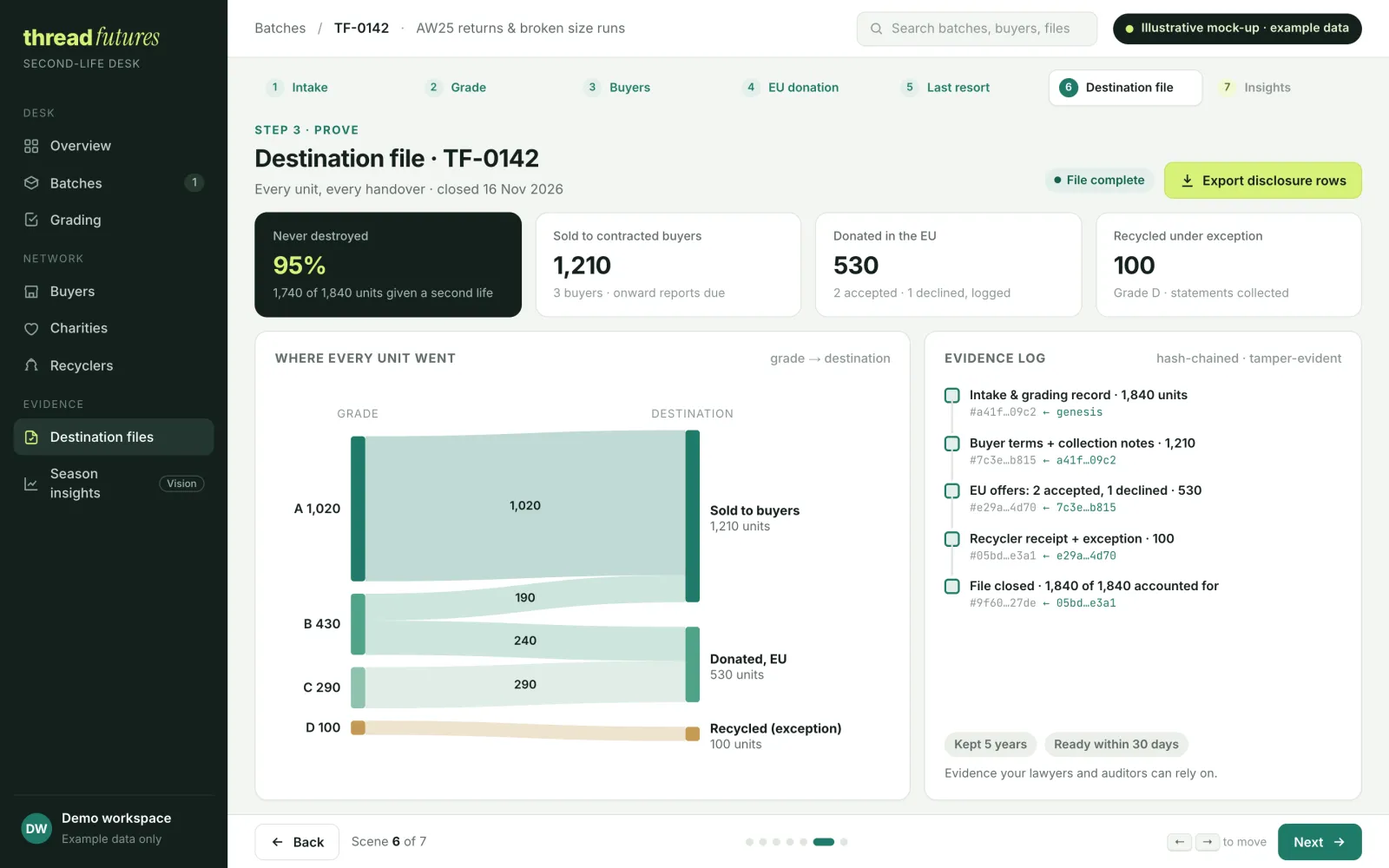
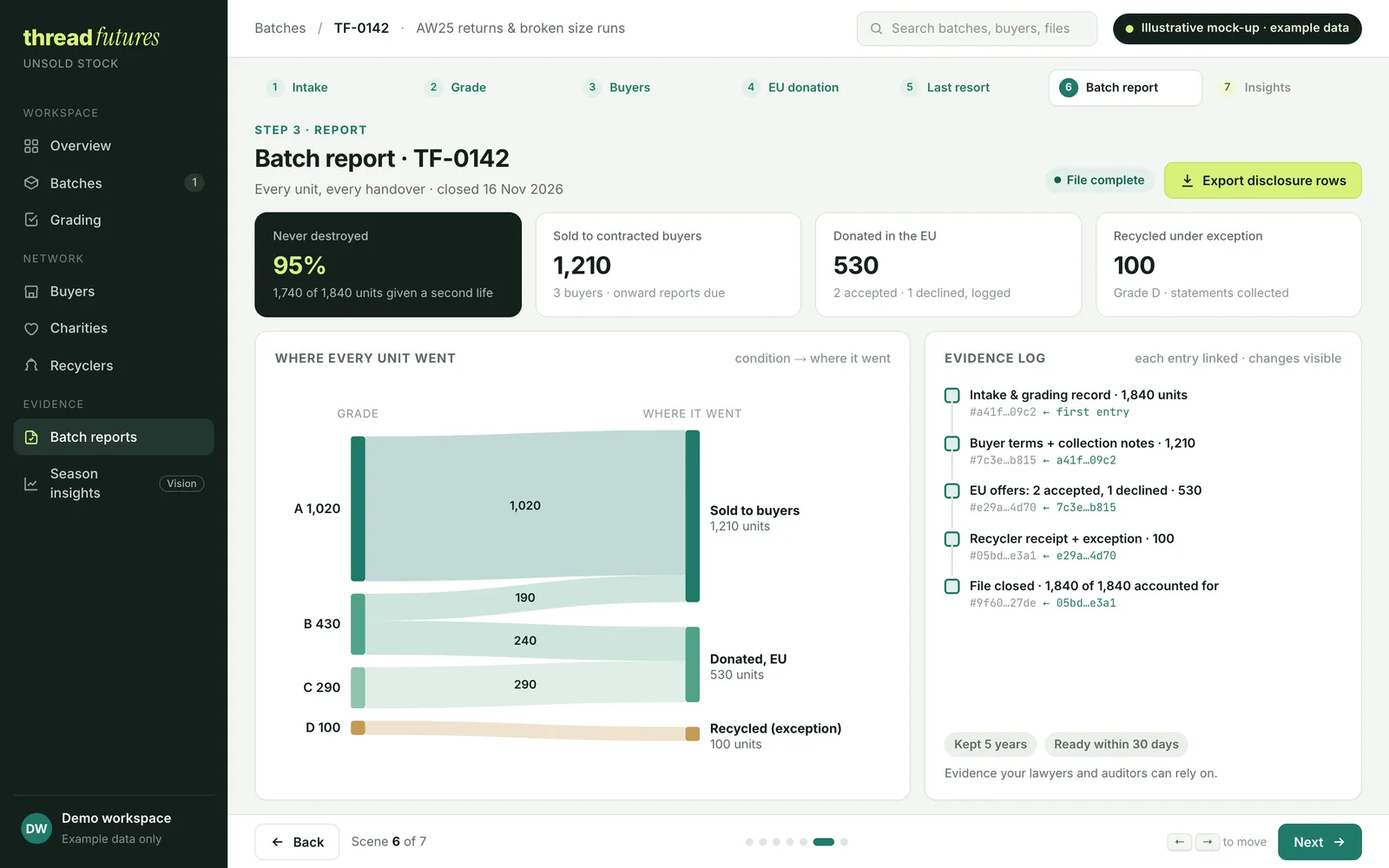
Update sub-project docs to current wording and figures; refresh site mock-up and contact count

diff --git a/site/investors.html b/site/investors.html
@@ -442,7 +442,7 @@ footer{background:#0F1817;color:var(--on-dark-2);padding:40px 0;font-size:.8rem}
     <p class="lede" style="max-width:720px;margin-top:14px"><b>Why this and not software (12 Nov 2026):</b> the software I'd built (stall-risk model, regulation search, purchase-order agent) could largely be rebuilt by a brand analyst with an AI assistant, and clean stock already sells. So we handle the physical placement and the records made at each handover, which an AI tool can't create after the fact.</p>
     <div class="hero-meta">
       <div><b>Pre-launch, no customers yet</b>Pre-revenue, not incorporated, solo founder in London. Not yet proven: whether brands feel enough pain to pay; our interviews test exactly that, with a written kill signal.</div>
-      <div><b>Talking to the market</b>Since 16 Nov 2026: interviewing brands, buyers and EU charities from 140+ named contacts. Supported by NU London Startup Hub, Barclays Eagle Labs Demo Directory, NatWest Digital Boost; on YC Co-Founder Matching</div>
+      <div><b>Talking to the market</b>Since 16 Nov 2026: interviewing brands, buyers and EU charities from nearly 200 named contacts. Supported by NU London Startup Hub, Barclays Eagle Labs Demo Directory, NatWest Digital Boost; on YC Co-Founder Matching</div>
       <div><b>Batch-record system</b>Planned, not built; the clickable prototype is a mock-up with example data</div>
     </div>
     <div class="cta-row"><a class="btn btn-line" href="index.html">← Back to the main site</a></div>

diff --git a/site/index.html b/site/index.html
@@ -800,7 +800,7 @@ select:focus,input[type=text]:focus,input[type=email]:focus,textarea:focus{outli
       <div class="reveal">
         <dl class="facts">
           <div><dt>Status</dt><dd>Pre-revenue, not yet incorporated, started in November 2026. Solo founder in London, recruiting a co-founder from fashion operations. No customers, signed buyers, charities or partners yet, and no batch handled.</dd></div>
-          <div><dt>Talking to</dt><dd>Since 16 November 2026, interviewing brands, resale buyers and EU charities, from more than 140 named contacts. Target by February 2027: 15 brands, 5 resale buyers, 3–5 EU charities, 2–3 mid-size fashion warehouses and one lawyer.</dd></div>
+          <div><dt>Talking to</dt><dd>Since 16 November 2026, interviewing brands, resale buyers and EU charities, from nearly 200 named contacts. Target by February 2027: 15 brands, 5 resale buyers, 3–5 EU charities, 2–3 mid-size fashion warehouses and one lawyer.</dd></div>
           <div><dt>Support</dt><dd>Northeastern University London Startup Hub, Barclays Eagle Labs Demo Directory, NatWest Digital Boost, and YC Co-Founder Matching.</dd></div>
           <div><dt>Not yet proven</dt><dd>Whether brands feel enough pain to pay; our interviews test exactly that, with a written kill signal.</dd></div>
           <div><dt>Decision</dt><dd>On 10 February 2027 we decide: go, keep testing, narrow, or stop. If 11 of 15 brands say their current liquidator already covers it, we narrow or stop.</dd></div>

diff --git a/docs/guides/04_stall_risk_model_step_by_step.md b/docs/guides/04_stall_risk_model_step_by_step.md
@@ -226,18 +226,18 @@ From `models/stall_metrics.json`. Train 896 SKUs, test 423 later launches, test 
 |---|---|---|---|
 | ROC AUC | **0.8118** | 0.5994 | 0.5 |
 | PR AUC | **0.5312** | 0.3138 | about 0.106 (base rate) |
-| Precision in top 20% | **34.5%** | 8.3% | 10.6% |
+| Precision in top 20% | **32.1%** | 20.2% | 10.6% |
 | Brier score | 0.0874 | n/a | about 0.095 if always predicting the base rate |
 
-Feature importance: early_trend 0.1959, early_customers 0.1634, launch_list_price 0.154, early_units_per_week 0.1386, launch_month 0.107, early_zero_week_share 0.0753, early_orders 0.0598, early_return_rate 0.041, is_seasonal_christmas 0.0367, early_max_markdown 0.0282.
+Feature importance: early_trend 0.2005, early_customers 0.1817, launch_list_price 0.1519, early_units_per_week 0.1287, launch_month 0.1076, early_zero_week_share 0.0637, early_orders 0.0592, early_return_rate 0.0386, is_seasonal_christmas 0.038, early_max_markdown 0.0301.
 
-MLflow run ID: `5dd66097c6e54d829c5e8004c37580fa`.
+MLflow run ID: `588d9d4399eb4ce0be3deed3809a0b84` (registered as "stall-risk" version 2, after the 9 Nov 2026 baseline fix; version 1 was run `5dd66097c6e54d829c5e8004c37580fa`).
 
 **How to read it:**
 
 - AUC 0.81: pick a stalled and a healthy product at random, and 81% of the time the model ranks the stalled one higher.
-- Top 20%: if a merchandiser reviews the 20% of lines the model flags, about 1 in 3 really will stall, versus about 1 in 9 at random. That's about three times the base rate.
-- PR AUC 0.51 vs a base rate of 0.11: strong given how rare stalls are.
+- Top 20%: if a merchandiser reviews the 20% of lines the model flags, about 1 in 3 really will stall, versus about 1 in 5 for the rule and about 1 in 9 at random. That's about three times the base rate.
+- PR AUC 0.53 vs a base rate of 0.11: strong given how rare stalls are.
 - Trend matters most, which makes sense, but it isn't enough alone: customers, price and launch month add a lot.
 - `launch_month` being important is a warning: seasonality is in play, which part 06 confirms.
 
@@ -246,7 +246,7 @@ MLflow run ID: `5dd66097c6e54d829c5e8004c37580fa`.
 ## 5. What went wrong or surprised me, and what it taught me
 
 ### The model ranks well but over-predicts later
-Monitoring (part 06) found that for 2011 Q2 launches the model predicted a 14% stall rate (13.9%) and only 1.7% actually stalled, because those lines sold into the Christmas peak. Ranking was still good (AUC 0.79), but the probabilities were too high. That's a calibration problem, and the fix is planned as part 15.
+Monitoring (part 06) found that for 2011 Q2 launches the model predicted a 13.6% stall rate and only 1.7% actually stalled, because those lines sold into the Christmas peak. Ranking was still good (AUC 0.84), but the probabilities were too high. That's a calibration problem, and the fix is planned as part 15.
 
 A read-only check while writing this guide shows why: the stall rate in the training set is 27.6% versus 10.6% in the test set. The model learned from a period where stalling was much more common. That also explains why the Brier score is only modestly better than predicting the base rate.
 
@@ -271,7 +271,7 @@ Without `LAST_LAUNCH`, products launched late in 2011 would look stalled simply 
 - **Real open data, not fashion and not a customer.** Gift and homeware retail has different seasons and life cycles from fashion.
 - Small test set (423 SKUs, about 45 stalls), so the metrics have real uncertainty. I haven't reported confidence intervals on the AUC; bootstrapping the test set would give them.
 - Over-predicts for spring launches heading into Christmas (part 06). Seasonality fix and calibration planned (part 15).
-- The baseline comparison needs rerunning with the corrected tie-break (section 5).
+- The baseline was rerun with the corrected tie-break on 9 Nov 2026 (section 5); the numbers above are from that run.
 - The 20% stall threshold and 12-week window are choices, not tuned to a business decision.
 - No hyperparameter search or cross-validation; one sensible configuration.
 - Feature importance is not causation.

diff --git a/docs/parts/18_batch_and_destination_file_prototype.md b/docs/parts/18_batch_and_destination_file_prototype.md
@@ -1,27 +1,33 @@
-# Thread Futures part 18: Batch and destination file prototype
+# Thread Futures part 18: Batch report prototype
 
-**Status:** Planned · **Label:** Planned (Mon 16 – Thu 19 Nov 2026)  
+**Status:** Planned · **Label:** Planned (next, after validation interviews)  
 
 ## In one line
-The first build of the second-life desk's product: one destination file per batch, recording every unit and every step (Grade → Place → Prove), with an export of the EU Article 24 disclosure rows.
+The first build of the actual product: one batch report per batch of a brand's unsold stock, recording every unit and every step (check, sell or donate or recycle, report), with an export of the EU Article 24 disclosure rows.
+
+## Why it matters
+Thread Futures is a B2B resale service for fashion brands: we act as their sales team for stock they can't sell themselves. The brand keeps ownership of the stock until it is sold, gets the money from each sale and gets a report of where every item went. Parts 1 to 10 are the founder's technical proof; this part is the product itself.
 
 ## Skills it adds
 Data modelling, SQL (SQLite/Postgres), FastAPI, audit logging, pytest
 
 ## Plan
-- **Batch intake with grading fields:** batch ID, SKUs, quantity, real size breakdown, condition codes, fibre composition (from the brand's tech packs), reason unsold.
+- **Batch intake with grading fields:** batch ID, SKUs, quantity, real size breakdown, condition codes, fibre composition (from the brand's product specs), reason unsold.
 - **Placement records, in waste-hierarchy order:**
   - contracted buyers, with the contract terms per placement (no destruction, no export as waste, channel/marketplace limits, de-labelling where required, onward-destination reporting) and the buyer's onward-destination report;
   - an offer/refusal log for donation to EU social-economy entities (who was offered what, when, and their decision), so the donation derogation (offered to at least three suitable EU entities for at least 8 weeks) can be evidenced;
   - waste-operator statements for last-resort recycling: the derogation statement handed over and the operator's receipt/treatment statement collected.
 - **Hash-chained, append-only log:** every event is appended and chained to the previous one, so any later edit is visible. Records are created at the moment of each handover, not rebuilt afterwards.
-- **Export:** a destination file per batch (kept 5 years, producible within 30 days of a request) and rows ready for the Article 24 disclosure table.
-- FastAPI endpoints to record events and export the file and disclosure rows.
+- **Export:** a batch report per batch (kept 5 years, producible within 30 days of a request) and rows ready for the Article 24 disclosure table.
+- FastAPI endpoints to record events and export the batch report and disclosure rows.
 
 This is why the product isn't something a chatbot can reproduce: a chat can draft a template, but it can't create a charity's acceptance or a waste operator's statement after the fact.
 
 ## Done when
-A demo season's batches produce a reproducible destination file and disclosure rows, with tests.
+A demo season's batches produce a reproducible batch report and disclosure rows, with tests.
 
 ## Effort
-4 days (Mon 16 – Thu 19 Nov 2026)
+About 4 days, scheduled after the validation interviews.
+
+## Note on the file name
+This file keeps its original name (`18_batch_and_destination_file_prototype.md`); "destination file" was the earlier name for the batch report.

diff --git a/docs/parts/01_offcut_forecasting.md b/docs/parts/01_offcut_forecasting.md
@@ -1,12 +1,12 @@
 # Thread Futures part 01: Offcut forecasting
 
-**Status:** Built · **Label:** Simulated data  
+**Status:** Built, now parked (an earlier idea, not part of the current resale service) · **Label:** Simulated data  
 
 ## In one line
 Forecasts how many kilograms of fabric offcuts a planned cutting run will produce, as a low, likely and high range, before any fabric is cut.
 
 ## Why it matters
-Cutting plans (markers) report planned efficiency, but cutting rooms lose more fabric than the plan shows: selvedge trim, ply ends, roll remnants, splices, defects. Knowing the likely weight early lets a factory plan a buyer for the offcuts.
+Cutting plans (markers) report planned efficiency, but cutting rooms lose more fabric than the plan shows: selvedge trim, ply ends, roll remnants, splices, defects. Knowing the likely weight early lets a factory plan a buyer for the offcuts. This was an earlier idea. Thread Futures now focuses on finished clothes and shoes that brands can't sell, so this part is kept as proof of build: it shows a full forecasting pipeline, built and tested from start to finish by one person.
 
 ## Data
 8,000 simulated production runs from a simulator that nests graded pattern pieces into markers and adds real-world losses. Calibrated to published industry ranges (simulated waste averages about 19% of fabric, inside the 10 to 20% range). Not factory data.
@@ -21,7 +21,7 @@ Python, scikit-learn (GradientBoostingRegressor, quantile loss), pandas, NumPy, 
 On 1,600 held-out simulated runs: 8.8% mean error on offcut kg vs 20.3% for the 15% rule and 23.3% for the marker alone; 82.4% of runs within ±15%; P10 to P90 range covers 76.8% of outcomes (target 80%). With the planned marker as an input: 4.9% error. A float32 split-threshold bug in the browser export was found and fixed: scikit-learn compares inputs as 32-bit floats, and rounded thresholds made edge inputs (e.g. a 1.57 m roll) take a different branch. A test now proves the export matches scikit-learn.
 
 ## Honest limits
-Trained on simulated runs. The first pilot goal is ±15% on real weighed output. Coverage is slightly under the 80% target.
+Trained on simulated runs; no factory has used it. If the idea were picked up again, the first goal would be ±15% on real weighed output. Coverage is slightly under the 80% target.
 
 ## Where it lives
 src/offcut/ (simulate.py, nesting.py, train.py, export.py), site/forecast.js, models/metrics.json

diff --git a/docs/guides/01_offcut_forecasting_step_by_step.md b/docs/guides/01_offcut_forecasting_step_by_step.md
@@ -1,6 +1,6 @@
 # Part 01: Offcut forecasting, step by step
 
-**Status:** Built · **Data label:** SIMULATED cutting runs (not factory data)
+**Status:** Built, now parked (an earlier idea, kept as proof of build; not part of the current resale service) · **Data label:** SIMULATED cutting runs (not factory data)
 **Code:** `src/offcut/` (simulate.py, garments.py, nesting.py, pipeline.py, train.py, export.py), `site/forecast.js`
 **Numbers from:** `models/metrics.json`, `data/staged/quality_report.json`
 
@@ -318,7 +318,7 @@ From `data/staged/quality_report.json`: 8,000 rows, no contract violations, mean
 **What it taught me:** when you move a model between languages, "nearly the same" is not the same. You need a parity test that proves the exported model gives the same answers as the original, especially at boundaries.
 
 ### The marker gap was bigger than I expected
-The marker misses about a quarter of the weighed volume in simulation (bias -4.4 pp on an average of about 19%). That's the case for the product: planning on the marker figure leaves a recycler short.
+The marker misses about a quarter of the weighed volume in simulation (bias -4.4 pp on an average of about 19%). Planning on the marker figure alone would leave a buyer of the offcuts short.
 
 ### Coverage slightly under target
 The P10 to P90 range covers 76.8%, not 80%. It's a small miss but a real one. A fix would be conformal calibration of the interval or slightly widening it, checked on held-out data.
@@ -327,8 +327,8 @@ The P10 to P90 range covers 76.8%, not 80%. It's a small miss but a real one. A 
 
 ## 6. Honest limits
 
-- **Simulated, not factory data.** The simulator is calibrated to published ranges (marker efficiency, roll lengths, selvedge widths), but it's still my model of reality. The first pilot goal is ±15% on real weighed offcuts.
-- **Not a customer.** No factory has used this yet.
+- **Simulated, not factory data.** The simulator is calibrated to published ranges (marker efficiency, roll lengths, selvedge widths), but it's still my model of reality. If the idea were picked up again, the first goal would be ±15% on real weighed offcuts.
+- **Not a customer, and parked.** No factory has used this.
 - The nesting is a rectangle approximation with a calibration factor, not commercial nesting software.
 - Five garment types and four fibres. A real factory has many more styles.
 - Coverage is 76.8% against an 80% target.

diff --git a/docs/guides/06_model_monitoring_step_by_step.md b/docs/guides/06_model_monitoring_step_by_step.md
@@ -186,8 +186,8 @@ The 175 + 70 + 178 SKUs add up to the 423 test SKUs in part 04.
 
 **How to read it:**
 
-- **Ranking holds in two of three quarters** (0.81 and 0.79). 2011Q1 drops to 0.62, but it has only 70 SKUs (about 5 stalls at 7.1%), so that AUC is very noisy.
-- **Calibration drifts badly.** The model over-predicts in every quarter, and the gap widens: 28% vs 21%, then 21% vs 7%, then 14% vs 1.7%. For 2011 Q2 launches, the model expected about 1 in 7 to stall and only about 1 in 60 did. Those spring lines' weeks 12 to 25 ran into the Christmas season (from late summer onwards), when sales rise instead of collapsing.
+- **Ranking holds in two of three quarters** (0.81 and 0.84). 2011Q1 drops to 0.65, but it has only 70 SKUs (about 5 stalls at 7.1%), so that AUC is very noisy.
+- **Calibration drifts badly.** The model over-predicts in every quarter, and the gap widens: 27% vs 21%, then 20% vs 7%, then 14% vs 1.7%. For 2011 Q2 launches, the model expected about 1 in 7 to stall and only about 1 in 60 did. Those spring lines' weeks 12 to 25 ran into the Christmas season (from late summer onwards), when sales rise instead of collapsing.
 - **Inputs shifted a lot.** Later launches sold more per week, to more customers, with fewer zero weeks than the training launches.
 - **launch_month PSI is huge by construction.** Each test quarter contains only three months, while training covers many months, so this "drift" is expected. It's still useful: it tells you the model is being asked about months it saw less of.
 
@@ -195,7 +195,7 @@ The 175 + 70 + 178 SKUs add up to the 423 test SKUs in part 04.
 
 ## 5. What went wrong or surprised me, and what it taught me
 
-### Over-prediction for 2011 Q2: 14% predicted vs 1.7% actual
+### Over-prediction for 2011 Q2: 13.6% predicted vs 1.7% actual
 This was the big finding. The model still ranked well, so a simple AUC check would have said "fine". Only the calibration check showed it was over-confident about stalling for lines selling into Christmas. A read-only check while writing this guide adds context: 27.6% of training launches stalled versus 10.6% of test launches, so the model learned in a higher-stall world.
 
 **What it taught me:** monitor calibration, not just ranking. And monitoring is useful because it tells you exactly what to fix next: a seasonal feature (weeks to Christmas) and recalibration on recent data. That's planned as part 15.

diff --git a/docs/guides/05_experimentation_step_by_step.md b/docs/guides/05_experimentation_step_by_step.md
@@ -8,9 +8,9 @@
 
 ## 1. The question this stage answers
 
-Two questions. A: do markdowns actually clear stock, or would those products have sold anyway? B: if Thread Futures runs a pilot routing unsold stock to better buyers, how many batches would it need to prove it recovers more money than the brand's usual liquidator?
+Two questions. A: do markdowns actually sell more units, or would those products have sold anyway? B: if Thread Futures sells some of a brand's unsold batches to vetted buyers and the brand's usual liquidator takes the others, how many batches would it take to show we return more money?
 
-A fashion brand cares because markdowns cost margin, and it only makes sense to pay for a routing service if the uplift is proven, not just claimed. Both questions are about telling cause from coincidence.
+A fashion brand cares because markdowns cost margin, and it only makes sense to pay for a resale service if the extra money back is shown, not just claimed. Both questions are about telling cause from coincidence.
 
 ---
 
@@ -137,7 +137,7 @@ def pilot_design(seed: int = 3) -> dict:
 - Welch's t-test: compares the means without assuming equal variances.
 - Bootstrap: resample each arm with replacement 5,000 times, record the difference in means, and take the 2.5th and 97.5th percentiles as a 95% confidence interval.
 
-**Why simulate:** to check the analysis plan works end to end before any real pilot, and to show a buyer what the result would look like.
+**Why simulate:** to check the analysis plan works from start to finish before any real batches, and to show a buyer what the result would look like.
 
 ---
 
@@ -267,7 +267,7 @@ The 64 batches come straight from three numbers I chose. If the true SD were lar
 - Price changes may partly reflect wholesale order mix (list price is the mode of small-order prices, but wholesale share can still shift).
 - Only one markdown threshold (15%) and one window (4 weeks) tested.
 - Matching is on pre-period level only, not trend.
-- **Part B is simulated.** The 8p, 11p and 6p are planning assumptions. A real pilot replaces them.
+- **Part B is simulated.** The 8p, 11p and 6p are planning assumptions. Real batches would replace them; no stock has been sold yet.
 - The simulated pilot is one draw; another seed gives a different uplift and interval.
 
 ---

diff --git a/docs/guides/10_ci_and_docker_step_by_step.md b/docs/guides/10_ci_and_docker_step_by_step.md
@@ -10,7 +10,7 @@
 
 Does the project run anywhere, not just on my laptop, and does every change get checked automatically?
 
-A fashion brand (or anyone hiring me) cares because a model that only works on one machine can't be handed over, deployed or trusted. Continuous integration proves on every push that the tests pass, the service builds into a container, and the container actually answers a real request.
+A fashion brand, a programme or an investor's technical adviser cares because a model that only works on one machine can't be handed over, deployed or trusted. Continuous integration proves on every push that the tests pass, the service builds into a container, and the container actually answers a real request.
 
 ---
 
@@ -203,7 +203,7 @@ Keys belong in the CI platform's encrypted secrets, never in the workflow file. 
 
 - **Per the summary and the commit history:** the first CI run passed on 9 Nov 2026: tests green, image built, API answered the forecast request. The commit after adding CI is titled "Docker build now verified in CI: update site and README" (`cbd22be`).
 - **Two jobs:** `test` (pytest) then `docker` (build, run, poll `/health`, POST a forecast).
-- **Tests run:** 22 at the time of the first CI run. The repo now has 23 (one more parity test was added in a later commit, `c2d6285`; see part 09). I haven't seen the CI log for the latest commit, so check the Actions page before quoting 23.
+- **Tests run:** 22 at the time of the first CI run. The repo now has 23 (one more parity test was added in a later commit, `c2d6285`; see part 09). Checked on 17 Nov 2026: the latest run on main reports "23 passed", and the smoke test returned `{"status":"ok"}` and a forecast with P50 960.7 kg (simulated data).
 - **Image contents:** the API code, two model files, the regulation corpus and the sample recycler list. No raw data, warehouse, tests or secrets.
 
 ---

diff --git a/docs/parts/00_index.md b/docs/parts/00_index.md
@@ -1,6 +1,6 @@
 # Thread Futures: all parts
 
-One file per part. Parts 1 to 10 are built and public at https://github.com/catliugit/ThreadFutures: they are the founder's technical proof, not the product. Parts 11 to 18 are planned. Part 18, the batch and destination file prototype, is the first build of the service's batch report (check, sell or donate or recycle, report) and is next. Part 1 (Offcut Forecast) is a parked earlier idea on simulated data.
+One file per part. Parts 1 to 10 are built and public at https://github.com/catliugit/ThreadFutures: they are the founder's technical proof, not the product. Parts 11 to 18 are planned. Part 18, the batch report prototype, is the first build of the actual product (check, sell or donate or recycle, report) and comes next, after the validation interviews. Part 1 (Offcut Forecast) is a parked earlier idea on simulated data.
 
 | # | Part | Status | Label |
 |---|---|---|---|
@@ -21,6 +21,6 @@ One file per part. Parts 1 to 10 are built and public at https://github.com/catl
 | 15 | [Seasonality fix](15_seasonality_fix.md) | Planned | Planned |
 | 16 | [Markdown pricing (Bayesian)](16_markdown_pricing_bayesian.md) | Planned | Planned |
 | 17 | [Azure deploy](17_azure_deploy.md) | Planned | Planned |
-| 18 | [Batch and destination file prototype](18_batch_and_destination_file_prototype.md) | Planned | Planned (Mon 16 – Thu 19 Nov 2026, next) |
+| 18 | [Batch report prototype](18_batch_and_destination_file_prototype.md) | Planned | Planned (next, after validation interviews) |
 
-Numbers come from the repo's models/*.json files and were last checked on 9 Nov 2026.
+Numbers come from the repo's models/*.json files and were last checked on 17 Nov 2026 (parts 7 to 10 against models/*.json, tests/ and the CI log of 17 Nov 2026: 23 tests passed).

diff --git a/docs/guides/09_api_service_step_by_step.md b/docs/guides/09_api_service_step_by_step.md
@@ -207,7 +207,7 @@ The API tests are integration tests; most of `test_offcut.py` and `test_stock.py
 - **Endpoints:** `/health`, `/v1/offcuts/forecast`, `/v1/stock/stall-risk`, `/v1/regulation/search`.
 - **Bad inputs return 422**, tested for an unknown garment, a gsm of 5 and a launch month of 13.
 
-**The test count.** The README and summaries say **22** tests. The test files in the repo today contain **23**: 6 in `test_api.py`, 12 in `test_offcut.py`, 5 in `test_stock.py`. pytest's cache lists the same 23 node IDs, and `pytest --collect-only` collects 23. The git history explains it: `test_browser_stall_model_matches_sklearn` was added in commit `c2d6285` ("Interactive stall-risk tool", 23:24 on 9 Nov 2026), after the CI commits (`1bc9206`, `cbd22be`, 22:40). So 22 was right for the first CI run, and 23 is right now. I haven't seen the CI log for the later commit, so check the Actions page shows it green, then report "23 automated tests".
+**The test count.** The README and summaries say **22** tests. The test files in the repo today contain **23**: 6 in `test_api.py`, 12 in `test_offcut.py`, 5 in `test_stock.py`. pytest's cache lists the same 23 node IDs, and `pytest --collect-only` collects 23. The git history explains it: `test_browser_stall_model_matches_sklearn` was added in commit `c2d6285` ("Interactive stall-risk tool", 23:24 on 9 Nov 2026), after the CI commits (`1bc9206`, `cbd22be`, 22:40). So 22 was right for the first CI run, and 23 is right now. Checked on 17 Nov 2026: the CI log of the latest run on main reports "23 passed, 1 warning in 4.00s", so report "23 automated tests".
 
 ---
 

diff --git a/docs/guides/11_to_17_planned_step_by_step.md b/docs/guides/11_to_17_planned_step_by_step.md
@@ -4,6 +4,8 @@
 
 Parts are ordered by priority. Effort estimates come from the subproject summaries.
 
+Parts 11 to 17 extend the founder's technical proof; they are not the product. Part 18, the batch report prototype (`docs/parts/18_batch_and_destination_file_prototype.md`), is the first build of the actual product and comes before these, after the validation interviews.
+
 | # | Part | Skills it adds | Effort | Done when |
 |---|---|---|---|---|
 | 11 | Stock health dashboard | Power BI, Looker, semantic layer, DAX | 1 day | Published dashboard link and a screenshot on the site |
@@ -160,7 +162,7 @@ Same feature table as DuckDB; row counts and a sample of values match.
 2. Add seasonal features to `features.py` (weeks to Christmas from launch, share of the outcome window in Q4).
 3. Retrain; log as a new MLflow run so it can be compared with run `5dd66097c6e54d829c5e8004c37580fa`.
 4. Hold out the most recent training launches as a calibration set; fit Platt and isotonic; compare Brier scores.
-5. Rerun `make monitor`; compare predicted vs actual stall rate per quarter with the current 28.4% vs 21.1%, 20.9% vs 7.1% and 13.9% vs 1.7%.
+5. Rerun `make monitor`; compare predicted vs actual stall rate per quarter with the current 27.2% vs 21.1%, 20.0% vs 7.1% and 13.6% vs 1.7% (from `models/monitoring.json`).
 6. Fix the PSI function for low-cardinality features while there (part 06 guide).
 7. Update `models/stall_metrics.json`, `models/monitoring.json`, the API bands if needed, and the README.
 
